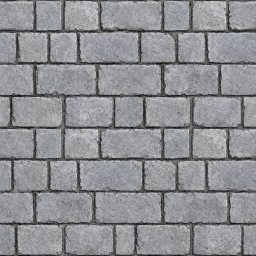
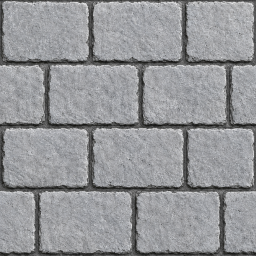
added stone bricks

diff --git a/src/components/Map/Terrain/materials/stoneBricks240Material.ts b/src/components/Map/Terrain/materials/stoneBricks240Material.ts
@@ -1,0 +1,234 @@
+// Stone bricks material (palette index 240).
+//
+// Uses a world-projected texture so the geometry worker does not need to emit
+// UV attributes. The material renders in its own bucket but shares the "solid"
+// occlusion group with default terrain, so hidden default/brick boundary faces
+// are culled.
+
+import * as THREE from 'three';
+import { THREE_D_TERRAIN_MATERIAL } from '../../threeDMapConstants';
+import type {
+	MaterialFactory,
+	MaterialFactoryParams,
+	MaterialFactoryResult,
+	MovementHighlightTexture,
+	TerrainMaterial,
+} from './materialTypes';
+
+const STONE_BRICKS_TEXTURE_URL = '/materials/bricks_240/bricks_256x256.png';
+const STONE_BRICKS_SWATCH = '#8f8f8f';
+const STONE_BRICKS_TEXTURE_REPEAT = 1.0;
+const STONE_BRICKS_ANISOTROPY = 8;
+
+let cachedTexture: THREE.Texture | null = null;
+
+function getStoneBricksTexture(): THREE.Texture {
+	if (cachedTexture) return cachedTexture;
+
+	const texture = new THREE.TextureLoader().load(STONE_BRICKS_TEXTURE_URL);
+	texture.colorSpace = THREE.SRGBColorSpace;
+	texture.wrapS = THREE.RepeatWrapping;
+	texture.wrapT = THREE.RepeatWrapping;
+	texture.magFilter = THREE.LinearFilter;
+	texture.minFilter = THREE.LinearMipmapLinearFilter;
+	texture.anisotropy = STONE_BRICKS_ANISOTROPY;
+	texture.generateMipmaps = true;
+	texture.needsUpdate = true;
+	cachedTexture = texture;
+	return texture;
+}
+
+function stoneBricksShaderHeader(): string[] {
+	return [
+		'attribute float aoStrength;',
+		'varying float vAoStrength;',
+		'varying vec3 vStoneBricksWorldPosition;',
+		'varying vec3 vStoneBricksWorldNormal;',
+	];
+}
+
+function stoneBricksBeginVertex(): string[] {
+	return [
+		'vAoStrength = aoStrength;',
+		'vStoneBricksWorldPosition = (modelMatrix * vec4(transformed, 1.0)).xyz;',
+		'vStoneBricksWorldNormal = normalize(mat3(modelMatrix) * normal);',
+	];
+}
+
+function stoneBricksFragmentHeader(): string[] {
+	return [
+		'varying float vAoStrength;',
+		'varying vec3 vStoneBricksWorldPosition;',
+		'varying vec3 vStoneBricksWorldNormal;',
+		'uniform sampler2D stoneBricksMap;',
+		'vec2 getStoneBricksUv(vec3 worldPosition, vec3 worldNormal) {',
+		'	vec3 n = abs(normalize(worldNormal));',
+		'	if (n.y >= n.x && n.y >= n.z) return worldPosition.xz;',
+		'	if (n.x >= n.z) return worldPosition.zy;',
+		'	return worldPosition.xy;',
+		'}',
+	];
+}
+
+function stoneBricksColorFragment(): string[] {
+	return [
+		'#include <color_fragment>',
+		`vec2 stoneBricksUv = getStoneBricksUv(vStoneBricksWorldPosition, vStoneBricksWorldNormal) * ${STONE_BRICKS_TEXTURE_REPEAT.toFixed(1)};`,
+		'vec4 stoneBricksTexel = texture2D(stoneBricksMap, stoneBricksUv);',
+		'diffuseColor.rgb *= stoneBricksTexel.rgb;',
+		'diffuseColor.a *= stoneBricksTexel.a;',
+		'diffuseColor.rgb *= vAoStrength;',
+	];
+}
+
+function installStoneBricksAoShader(
+	material: THREE.MeshStandardMaterial,
+	texture: THREE.Texture
+): void {
+	material.onBeforeCompile = (shader) => {
+		shader.uniforms.stoneBricksMap = { value: texture };
+		shader.vertexShader = shader.vertexShader.replace(
+			'#include <common>',
+			['#include <common>', ...stoneBricksShaderHeader()].join('\n')
+		);
+		shader.vertexShader = shader.vertexShader.replace(
+			'#include <begin_vertex>',
+			['#include <begin_vertex>', ...stoneBricksBeginVertex()].join('\n')
+		);
+		shader.fragmentShader = shader.fragmentShader.replace(
+			'#include <common>',
+			['#include <common>', ...stoneBricksFragmentHeader()].join('\n')
+		);
+		shader.fragmentShader = shader.fragmentShader.replace(
+			'#include <color_fragment>',
+			stoneBricksColorFragment().join('\n')
+		);
+	};
+}
+
+function installStoneBricksHighlightShader(
+	material: THREE.MeshStandardMaterial,
+	texture: THREE.Texture,
+	highlight: MovementHighlightTexture
+): void {
+	const highlightSize = new THREE.Vector2(highlight.width, highlight.length);
+	const heightLevels = highlight.heightLevels;
+
+	material.onBeforeCompile = (shader) => {
+		shader.uniforms.stoneBricksMap = { value: texture };
+		shader.uniforms.movementHighlightMap = { value: highlight.texture };
+		shader.uniforms.movementHighlightSize = { value: highlightSize };
+		shader.uniforms.movementHighlightHeightLevels = { value: heightLevels };
+
+		shader.vertexShader = shader.vertexShader.replace(
+			'#include <common>',
+			[
+				'#include <common>',
+				...stoneBricksShaderHeader(),
+				'uniform vec2 movementHighlightSize;',
+				'attribute float tileHeight;',
+				'attribute float highlightStrength;',
+				'varying float vMovementHighlightHeight;',
+				'varying float vMovementHighlightStrength;',
+				'varying vec3 vMovementWorldPosition;',
+				'varying vec3 vMovementWorldNormal;',
+			].join('\n')
+		);
+		shader.vertexShader = shader.vertexShader.replace(
+			'#include <begin_vertex>',
+			[
+				'#include <begin_vertex>',
+				...stoneBricksBeginVertex(),
+				'vMovementHighlightHeight = tileHeight;',
+				'vMovementHighlightStrength = highlightStrength;',
+				'vMovementWorldPosition = (modelMatrix * vec4(transformed, 1.0)).xyz;',
+				'vMovementWorldNormal = normalize(mat3(modelMatrix) * normal);',
+			].join('\n')
+		);
+		shader.fragmentShader = shader.fragmentShader.replace(
+			'#include <common>',
+			[
+				'#include <common>',
+				...stoneBricksFragmentHeader(),
+				'uniform highp sampler3D movementHighlightMap;',
+				'uniform vec2 movementHighlightSize;',
+				'uniform float movementHighlightHeightLevels;',
+				'varying float vMovementHighlightHeight;',
+				'varying float vMovementHighlightStrength;',
+				'varying vec3 vMovementWorldPosition;',
+				'varying vec3 vMovementWorldNormal;',
+			].join('\n')
+		);
+		shader.fragmentShader = shader.fragmentShader.replace(
+			'#include <color_fragment>',
+			stoneBricksColorFragment().join('\n')
+		);
+		shader.fragmentShader = shader.fragmentShader.replace(
+			'#include <dithering_fragment>',
+			[
+				'vec3 movementOwnerPosition = vMovementWorldPosition - vMovementWorldNormal * 0.002;',
+				'vec2 movementTileCoord = clamp(',
+				'	floor(movementOwnerPosition.xz + movementHighlightSize * 0.5),',
+				'	vec2(0.0),',
+				'	movementHighlightSize - vec2(1.0)',
+				');',
+				'float movementTileHeight = clamp(vMovementHighlightHeight, 0.0, movementHighlightHeightLevels - 1.0);',
+				'vec3 movementHighlightUvw = vec3(',
+				'	(movementTileCoord.x + 0.5) / movementHighlightSize.x,',
+				'	(movementTileHeight + 0.5) / movementHighlightHeightLevels,',
+				'	(movementTileCoord.y + 0.5) / movementHighlightSize.y',
+				');',
+				'vec4 movementHighlight = texture(movementHighlightMap, movementHighlightUvw);',
+				'if (movementHighlight.a > 0.0 && vMovementHighlightStrength > 0.0) {',
+				'	vec3 baseColor = gl_FragColor.rgb;',
+				'	float baseLuma = dot(baseColor, vec3(0.2126, 0.7152, 0.0722));',
+				'	vec2 tileLocal = fract(movementOwnerPosition.xz + movementHighlightSize * 0.5);',
+				'	float edgeDistance = min(min(tileLocal.x, 1.0 - tileLocal.x), min(tileLocal.y, 1.0 - tileLocal.y));',
+				'	float edgeBand = 1.0 - smoothstep(0.025, 0.11, edgeDistance);',
+				'	float markAlpha = clamp(movementHighlight.a * (1.35 + edgeBand * 0.75) * vMovementHighlightStrength, 0.0, 0.92);',
+				'	vec3 screened = 1.0 - (1.0 - baseColor) * (1.0 - movementHighlight.rgb * 0.85);',
+				'	vec3 marked = mix(baseColor, screened, markAlpha);',
+				'	marked = max(marked, movementHighlight.rgb * movementHighlight.a * (0.65 + 0.55 * vMovementHighlightStrength));',
+				'	vec3 contrastEdge = mix(vec3(1.0), vec3(0.035), step(0.58, baseLuma));',
+				'	vec3 edgeColor = mix(movementHighlight.rgb, contrastEdge, 0.45);',
+				'	gl_FragColor.rgb = mix(marked, edgeColor, edgeBand * movementHighlight.a * 0.7 * vMovementHighlightStrength);',
+				'}',
+				'#include <dithering_fragment>',
+			].join('\n')
+		);
+	};
+}
+
+export const createStoneBricks240Material: MaterialFactory = (
+	params: MaterialFactoryParams
+): MaterialFactoryResult => {
+	const { acceptsMovementHighlight, movementHighlight } = params;
+	const texture = getStoneBricksTexture();
+	const material = new THREE.MeshStandardMaterial({
+		roughness: THREE_D_TERRAIN_MATERIAL.ROUGHNESS,
+		metalness: THREE_D_TERRAIN_MATERIAL.METALNESS,
+		vertexColors: false,
+	});
+
+	if (acceptsMovementHighlight && movementHighlight) {
+		installStoneBricksHighlightShader(material, texture, movementHighlight);
+	} else {
+		installStoneBricksAoShader(material, texture);
+	}
+
+	return { material, castShadow: true, receiveShadow: true };
+};
+
+const stoneBricks240Material: TerrainMaterial = {
+	bucketKey: 'stonebricks_240',
+	occlusionGroup: 'solid',
+	shaderVersion: 1,
+	factory: createStoneBricks240Material,
+	special: {
+		paletteIndex: 240,
+		label: 'Stone Bricks',
+		swatchColor: STONE_BRICKS_SWATCH,
+	},
+};
+
+export default stoneBricks240Material;

diff --git a/src/components/inputs/VoxelTerrainEditor.tsx b/src/components/inputs/VoxelTerrainEditor.tsx
@@ -584,9 +584,9 @@ function buildChunkGeometry(
 	const normals:   number[] = [];
 	const colors:    number[] = [];
 	// Per-vertex "is this voxel a special material?" flag (0.0 or 1.0). Drives a
-	// subtle stripe-pattern hint in the editor's terrain shader so painted water
-	// reads as "not just a blue voxel" without recreating the full water material
-	// in the editor.
+	// subtle stripe-pattern hint in the editor's terrain shader so special
+	// materials read as "not just a normal voxel" without recreating the full
+	// material shader stack in the editor.
 	const specials:  number[] = [];
 	const indices:   number[] = [];
 
@@ -3048,7 +3048,7 @@ const VoxelTerrainEditor = forwardRef<VoxelTerrainEditorHandle, VoxelTerrainEdit
 			? selection.colorIndex ?? selectedColorIndex
 			: selectedColorIndex;
 	const selectionColorHex =
-		TERRAIN_PALETTE[selectionColorIndex] ?? TERRAIN_PALETTE[DEFAULT_TERRAIN_COLOR_INDEX];
+		`#${terrainPaletteIndexToVoxelColor(selectionColorIndex).toString(16).padStart(6, "0")}`;
 	const handleToolButtonClick = (buttonId: EditorTool) => {
 		if (buttonId === "boxSelect" || buttonId === "colorSelect") {
 			if (activeSelectionTool === buttonId) {

diff --git a/src/components/Map/Terrain/materials/index.ts b/src/components/Map/Terrain/materials/index.ts
@@ -36,6 +36,7 @@ import type {
 } from './materialTypes';
 
 import defaultMaterial from './defaultMaterial';
+import stoneBricks240Material from './stoneBricks240Material';
 
 // ---------------------------------------------------------------------------
 // Catalogue
@@ -48,6 +49,7 @@ import defaultMaterial from './defaultMaterial';
 
 export const TERRAIN_MATERIALS: readonly TerrainMaterial[] = [
 	defaultMaterial,
+	stoneBricks240Material,
 ];
 
 // ---------------------------------------------------------------------------